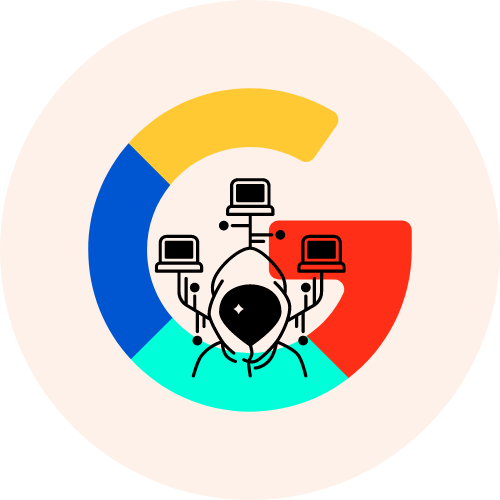
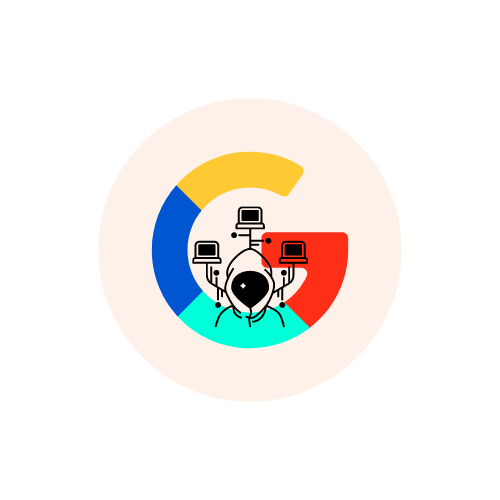
finished html for google homepage

Changed region(s): [[0.15, 0.15, 0.84, 0.84]]

diff --git a/index.html b/index.html
@@ -63,9 +63,9 @@
             display: block;
             margin: 0 auto;
             clear: both;
-            padding-top: 112px;
-            padding-bottom: 20px;
-            size-adjust: 50;
+            padding-top: 30px;
+            padding-bottom: 1px;
+            
         }
         
         .form {

diff --git a/advanced.html b/advanced.html
@@ -63,8 +63,8 @@
             display: block;
             margin: 0 auto;
             clear: both;
-            padding-top: 112px;
-            padding-bottom: 20px;
+            padding-top: 30px;
+            padding-bottom: 1px;
         }
         
         .form {

diff --git a/image.html b/image.html
@@ -63,8 +63,8 @@
             display: block;
             margin: 0 auto;
             clear: both;
-            padding-top: 112px;
-            padding-bottom: 20px;
+            padding-top: 30px;
+            padding-bottom: 1px;
         }
         
         .form {
